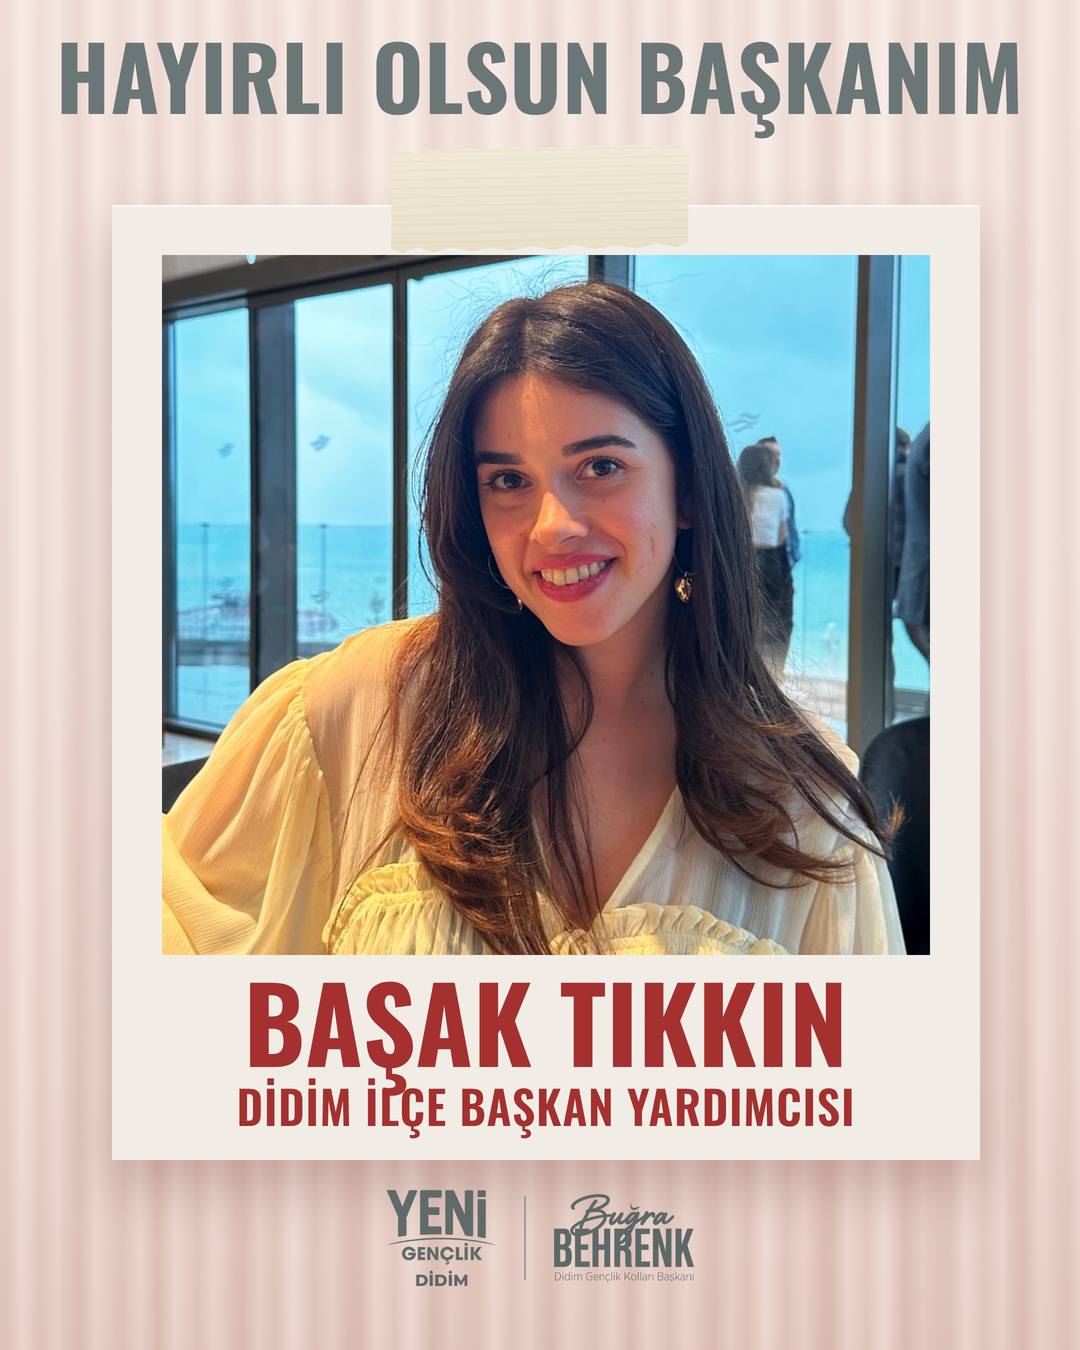
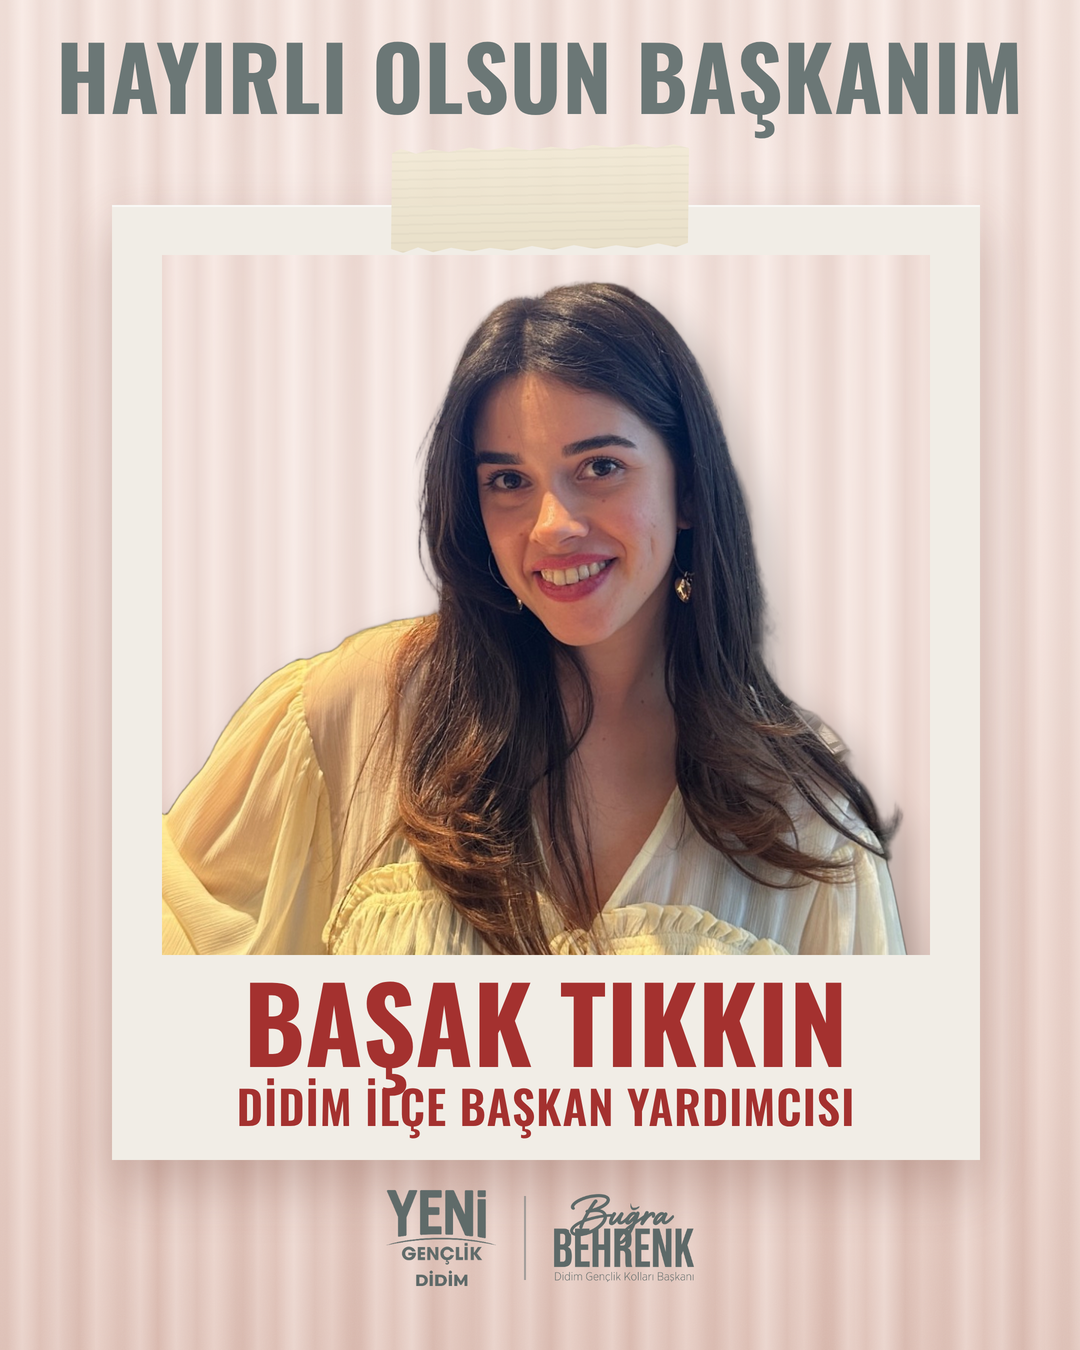
Başak postu: fotoğraf arka planı pembe perdeye alındı
Claude-Session: https://claude.ai/code/session_01SatttGbgBLoCnk9KGLypWv

Changed region(s): [[0.1528, 0.1867, 0.8861, 0.7156]]

diff --git a/tasarim/kisisel/basak/basak.html b/tasarim/kisisel/basak/basak.html
@@ -51,7 +51,7 @@ body{position:relative;background:#050505}
 <svg class="gren" width="1080" height="1350"><filter id="g"><feTurbulence type="fractalNoise" baseFrequency=".85" numOctaves="2" seed="3"/><feColorMatrix type="saturate" values="0"/></filter><rect width="1080" height="1350" filter="url(#g)"/></svg>
 <div class="baslik">HAYIRLI OLSUN BAŞKANIM</div>
 <div class="cerceve"></div>
-<div class="pencere"><div class="perde" style="left:-162px;top:-255px;width:1080px;height:1350px"></div><img class="foto" src="foto.jpg"></div>
+<div class="pencere"><div class="perde" style="left:-162px;top:-255px;width:1080px;height:1350px"></div><img class="foto" src="basak-kesik.png" style="left:-35px;top:-124px;filter:brightness(0) blur(18px);opacity:.22"><img class="foto" src="basak-kesik.png"></div>
 <div class="bant"></div>
 <div class="isim"><b>BAŞAK TIKKIN</b><span>DİDİM İLÇE BAŞKAN YARDIMCISI</span></div>
 <div class="alt"><img class="logo2" src="logo-petrol.png"><span class="ayrac"></span><img class="imza" src="imza-petrol.png"></div>
